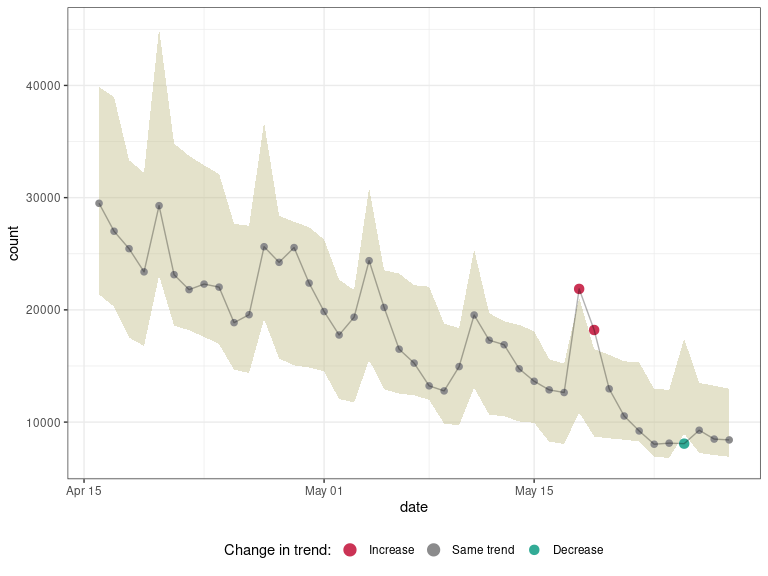
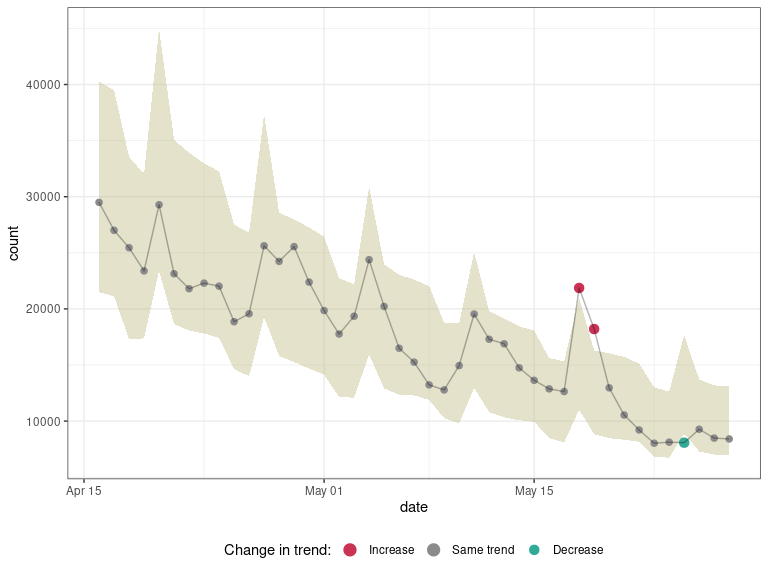
bump README

diff --git a/README.md b/README.md
@@ -158,23 +158,14 @@ res
 #>     }
 #>     result
 #> }
-#> <bytecode: 0x558208669248>
-#> <environment: 0x55820cec60c0>
+#> <bytecode: 0x556cfb348d30>
+#> <environment: 0x556cfc5e9c70>
 #> 
 #> attr(,"class")
 #> [1] "trending_model_fit" "list"              
 #> 
-#> $n_outliers
-#> [1] 3
-#> 
-#> $n_outliers_train
-#> [1] 3
-#> 
-#> $n_outliers_recent
-#> [1] 0
-#> 
-#> $p_value
-#> [1] 0.1665987
+#> $alpha
+#> [1] 0.05
 #> 
 #> $results
 #>          date day      weekday count training  estimate  lower_ci upper_ci
@@ -222,49 +213,49 @@ res
 #> 42 2020-05-27  70 rest_of_week  8486     TRUE  9892.202  8979.999 10897.07
 #> 43 2020-05-28  71 rest_of_week  8411     TRUE  9629.161  8715.443 10638.67
 #>    lower_pi upper_pi outlier classification
-#> 1     21380    39870   FALSE         normal
-#> 2     20281    38962   FALSE         normal
-#> 3     17528    33340   FALSE         normal
-#> 4     16787    32210   FALSE         normal
-#> 5     23047    45049   FALSE         normal
-#> 6     18602    34825   FALSE         normal
-#> 7     18181    33730   FALSE         normal
-#> 8     17596    32882   FALSE         normal
-#> 9     16949    32103   FALSE         normal
-#> 10    14664    27664   FALSE         normal
-#> 11    14380    27497   FALSE         normal
-#> 12    19202    36696   FALSE         normal
-#> 13    15668    28384   FALSE         normal
-#> 14    15057    27853   FALSE         normal
-#> 15    14873    27362   FALSE         normal
-#> 16    14514    26276   FALSE         normal
-#> 17    12066    22678   FALSE         normal
-#> 18    11740    21774   FALSE         normal
-#> 19    15551    30842   FALSE         normal
-#> 20    12929    23522   FALSE         normal
-#> 21    12542    23240   FALSE         normal
-#> 22    12384    22194   FALSE         normal
-#> 23    11984    22068   FALSE         normal
-#> 24     9872    18757   FALSE         normal
-#> 25     9712    18388   FALSE         normal
-#> 26    13064    25370   FALSE         normal
-#> 27    10670    19710   FALSE         normal
-#> 28    10513    18976   FALSE         normal
-#> 29    10062    18662   FALSE         normal
-#> 30     9941    18092   FALSE         normal
-#> 31     8255    15604   FALSE         normal
-#> 32     8052    15208   FALSE         normal
-#> 33    10868    21088    TRUE       increase
-#> 34     8715    16489    TRUE       increase
-#> 35     8552    16001   FALSE         normal
-#> 36     8431    15421   FALSE         normal
-#> 37     8275    15318   FALSE         normal
-#> 38     6884    12936   FALSE         normal
-#> 39     6823    12887   FALSE         normal
-#> 40     8974    17427    TRUE       decrease
-#> 41     7258    13496   FALSE         normal
-#> 42     7056    13235   FALSE         normal
-#> 43     6912    12973   FALSE         normal
+#> 1     21492    40258   FALSE         normal
+#> 2     21133    39501   FALSE         normal
+#> 3     17287    33551   FALSE         normal
+#> 4     17379    32027   FALSE         normal
+#> 5     23379    44969   FALSE         normal
+#> 6     18637    35057   FALSE         normal
+#> 7     18082    33923   FALSE         normal
+#> 8     17811    32972   FALSE         normal
+#> 9     17419    32253   FALSE         normal
+#> 10    14633    27520   FALSE         normal
+#> 11    14007    26788   FALSE         normal
+#> 12    19284    37314   FALSE         normal
+#> 13    15806    28577   FALSE         normal
+#> 14    15271    27976   FALSE         normal
+#> 15    14686    27261   FALSE         normal
+#> 16    14148    26425   FALSE         normal
+#> 17    12144    22720   FALSE         normal
+#> 18    12092    22206   FALSE         normal
+#> 19    15933    30879   FALSE         normal
+#> 20    12915    23981   FALSE         normal
+#> 21    12352    23047   FALSE         normal
+#> 22    12289    22607   FALSE         normal
+#> 23    11894    22035   FALSE         normal
+#> 24    10256    18791   FALSE         normal
+#> 25     9818    18715   FALSE         normal
+#> 26    12949    25062   FALSE         normal
+#> 27    10809    19816   FALSE         normal
+#> 28    10345    19145   FALSE         normal
+#> 29    10077    18453   FALSE         normal
+#> 30     9942    18066   FALSE         normal
+#> 31     8484    15617   FALSE         normal
+#> 32     8102    15330   FALSE         normal
+#> 33    11024    20993    TRUE       increase
+#> 34     8823    16288    TRUE       increase
+#> 35     8482    16041   FALSE         normal
+#> 36     8339    15730   FALSE         normal
+#> 37     8156    15123   FALSE         normal
+#> 38     6829    13011   FALSE         normal
+#> 39     6735    12635   FALSE         normal
+#> 40     8904    17663    TRUE       decrease
+#> 41     7298    13716   FALSE         normal
+#> 42     7021    13181   FALSE         normal
+#> 43     7013    13126   FALSE         normal
 #> 
 #> $date_index
 #> [1] "date"
@@ -312,7 +303,7 @@ models <- list(
 )
 
 # analyses on all data
-res <- asmodee(dat, models, method = evaluate_aic)
+res <- asmodee(dat, models, method = evaluate_aic, fixed_k = 7)
 
 plot(res)
 ```
